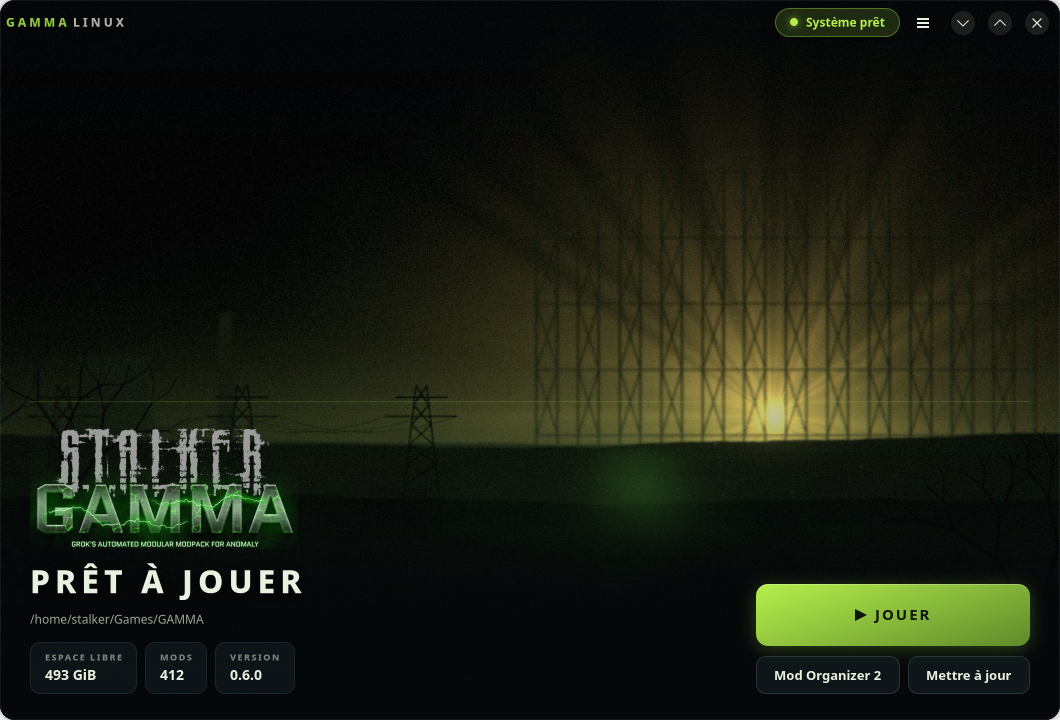
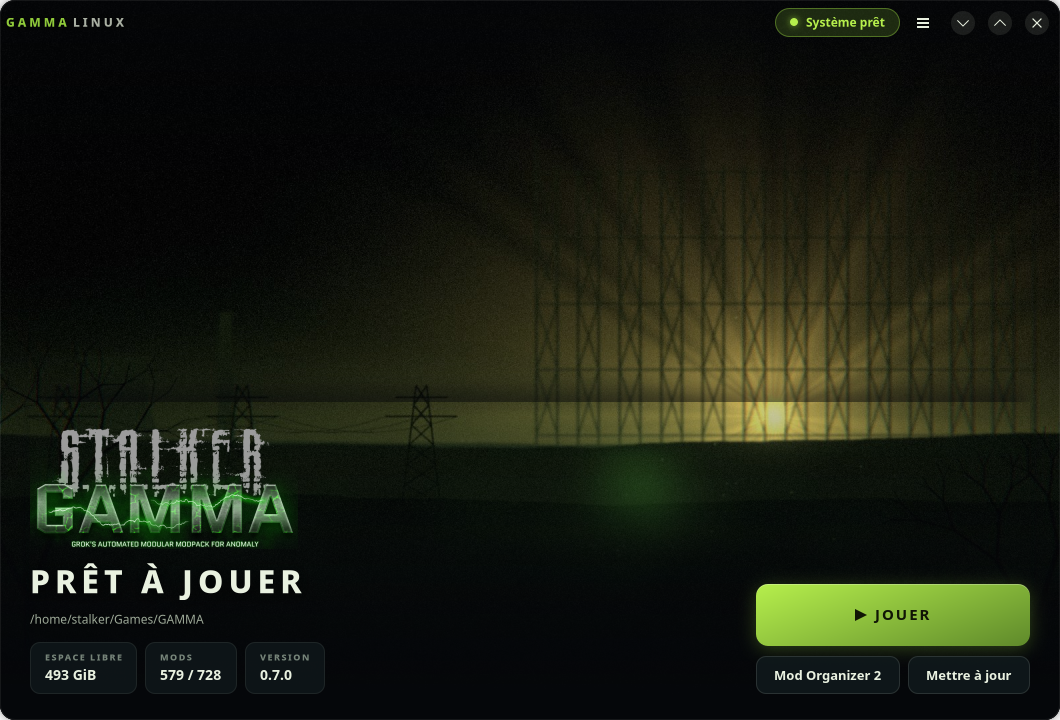
fix(gui): remplacer le filet lumineux du pont par une ombre, pas une ligne
border-top/box-shadow sur .deck rendait comme une ligne verte nette et bien
visible sur l'accueil, presque exactement à la hauteur de l'horizon le plus
lumineux de l'artwork — un trait à 1px, aussi peu opaque soit-il, se lit
comme une seconde ligne d'horizon parasite. Remplacé par un unique
box-shadow flouté et non teinté (@zone_void plutôt que @rad) : la même
séparation visuelle, sans le trait.

Au passage, scripts/capture_screenshots.py était cassé depuis deux commits
(InstallStats.active_mod_count, puis install_phase_labels(steam=...)) sans
que personne ne le remarque — les captures de docs/screenshots/ n'avaient
donc pas suivi la refonte de la tuile Mods ni le raccourci Steam. Corrigé et
régénéré les quatre.

Changed region(s): [[0.467, 0.5194, 0.9028, 0.5806], [0.1557, 0.8861, 0.3113, 0.9472]]

diff --git a/src/stalker_gamma_linux/gui/theme/style.css b/src/stalker_gamma_linux/gui/theme/style.css
@@ -123,11 +123,14 @@ window.background {
 
 /* -- Bandeau bas : le « pont » du launcher -------------------------------- */
 
-/* Le contenu du bas n'est plus posé sur l'image, il repose sur un pont : un
-   filet lumineux le sépare de l'artwork, comme la ligne d'un HUD. */
+/* Le contenu du bas n'est plus posé sur l'image, il repose sur un pont :
+   assombri plutôt que souligné, pour se détacher de l'artwork sans y ajouter
+   de trait. Une teinte @rad ou un `border` net se lisait comme une seconde
+   ligne d'horizon parasite, juste au-dessus de la vraie — l'artwork est déjà
+   le plus lumineux à cette hauteur, un filet « lumineux » y devenait un
+   filet en trop. */
 .deck {
-  border-top: 1px solid alpha(@rad, 0.16);
-  box-shadow: inset 0 1px 0 alpha(@rad, 0.05);
+  box-shadow: 0 -18px 22px -6px alpha(@zone_void, 0.55);
 }
 
 /* -- Titres --------------------------------------------------------------- */

diff --git a/scripts/capture_screenshots.py b/scripts/capture_screenshots.py
@@ -47,7 +47,8 @@ gi.require_version("Gsk", "4.0")
 from gi.repository import Adw, GLib, Gsk, Gtk  # noqa: E402
 
 DEMO_ROOT = Path("/home/stalker/Games/GAMMA")
-DEMO_MODS = 412
+DEMO_MODS = 728
+DEMO_ACTIVE_MODS = 579
 SIZE = (1060, 720)
 _MAP_TIMEOUT_SECONDS = 5.0
 _SETTLE_ITERATIONS = 400
@@ -126,7 +127,7 @@ def _demo_window(app: Adw.Application):  # type: ignore[no-untyped-def]
         window._probe_generation,
         summary.SystemSummary(blocking=()),
         space.SpaceReport(free_bytes=493 * 1024**3, verdict=space.SpaceVerdict.OK),
-        stats.InstallStats(mod_count=DEMO_MODS, version="0.6.0"),
+        stats.InstallStats(mod_count=DEMO_MODS, active_mod_count=DEMO_ACTIVE_MODS, version="0.7.0"),
     )
     return window
 
@@ -178,7 +179,7 @@ def _progress(app: Adw.Application, destination: Path) -> None:
         task=task,
         cancellable=True,
         on_finished=lambda _code: None,
-        phase_labels=jobs.install_phase_labels(shortcut=False),
+        phase_labels=jobs.install_phase_labels(shortcut=False, steam=False),
     )
     window._nav_view.push(page)
 
